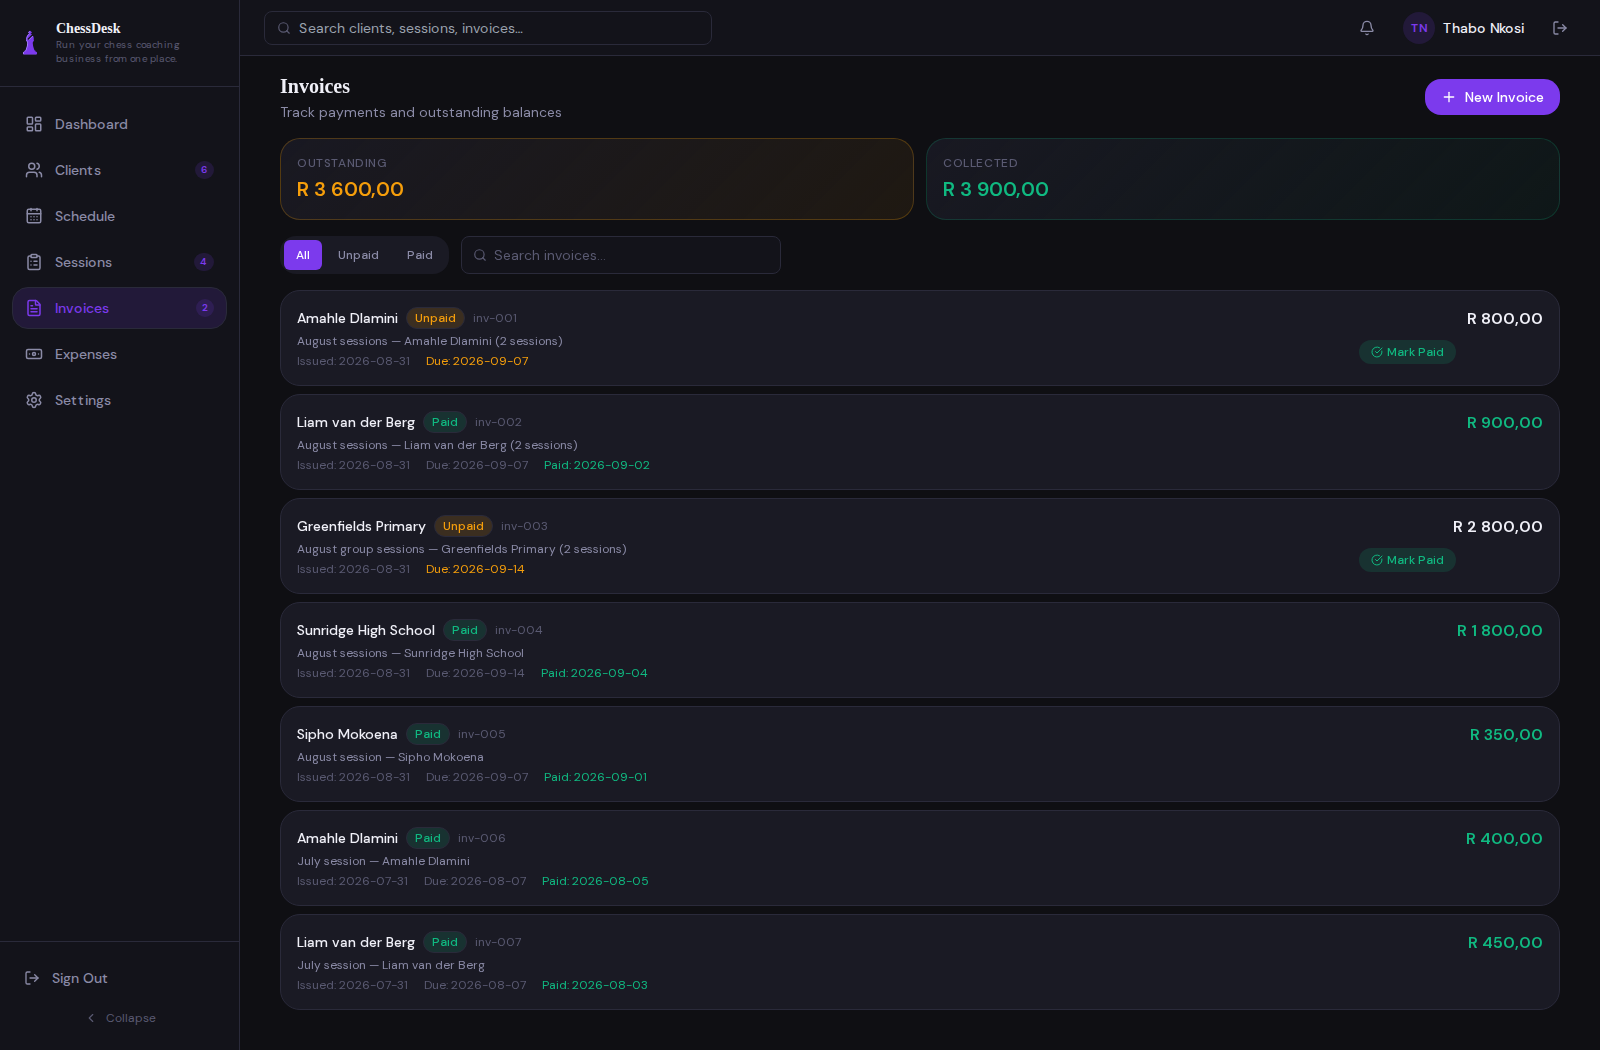
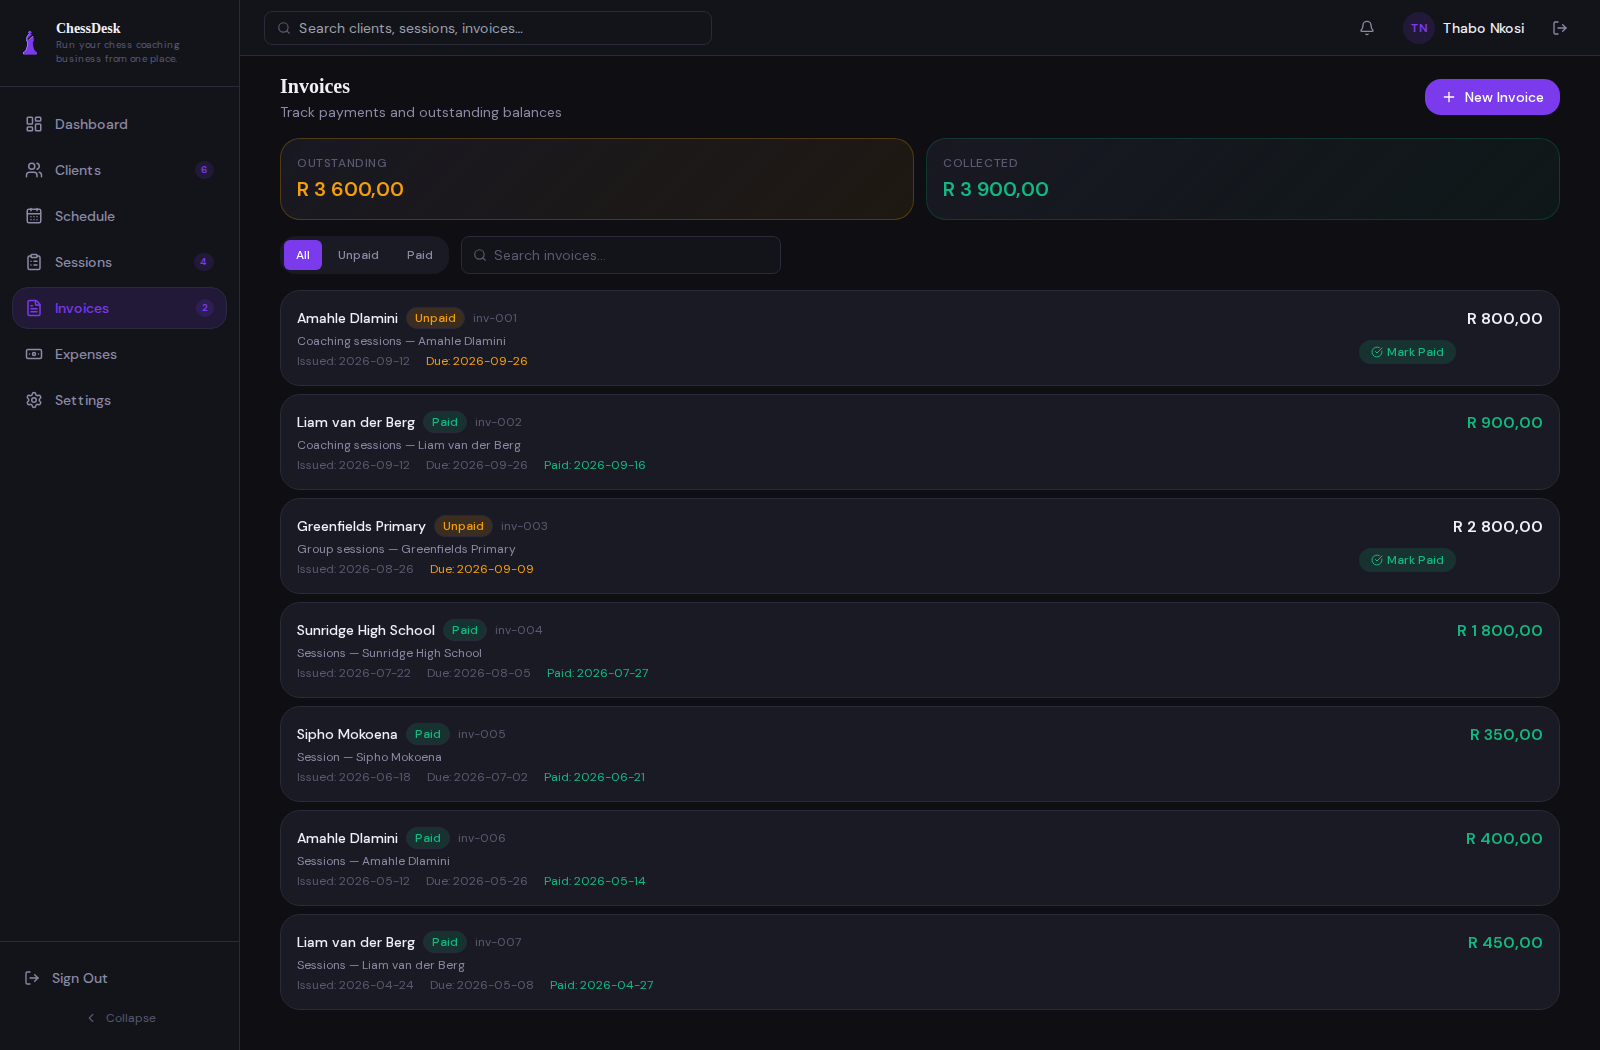
feat: refresh seeded demo data and README visuals

diff --git a/backend/store.py b/backend/store.py
@@ -2,9 +2,10 @@
 
 from __future__ import annotations
 
+import calendar
 import os
 from dataclasses import dataclass
-from datetime import date
+from datetime import date, timedelta
 from typing import Any
 
 from sqlalchemy import delete, func, select
@@ -55,6 +56,20 @@ def _env_enabled(name: str, *, default: bool) -> bool:
     if value is None:
         return default
     return value.strip().lower() in {"1", "true", "yes", "on"}
+
+
+def _sample_date(
+    today: date, months_ago: int, day: int, *, before_today: bool = False,
+) -> date:
+    """Place demo records in a rolling six-month window, including today-relative examples."""
+
+    month_index = today.year * 12 + today.month - 1 - months_ago
+    year, month_zero_based = divmod(month_index, 12)
+    month = month_zero_based + 1
+    sample_day = min(day, calendar.monthrange(year, month)[1])
+    if before_today and months_ago == 0:
+        sample_day = min(sample_day, max(1, today.day - 1))
+    return date(year, month, sample_day)
 
 
 class Store:
@@ -552,6 +567,8 @@ class Store:
             if db.scalar(select(CoachORM.id).limit(1)) is not None:
                 return
 
+            today = self.today()
+
             db.add(CoachORM(
                 id="coach-001", name="Thabo Nkosi", email="thabo@chessops.co.za",
                 phone="+27 82 345 6789", business_name="Nkosi Chess Academy", currency="ZAR",
@@ -599,43 +616,45 @@ class Store:
                 ))
 
             sessions = [
-                ("session-001", "client-001", "2026-09-08", "14:00", 60, None, "in-person", "Rosebank Library", "scheduled", ""),
-                ("session-002", "client-002", "2026-09-09", "16:00", 60, None, "online", "", "scheduled", "Tactics session — forks and pins."),
-                ("session-003", "client-005", "2026-09-10", "14:30", 90, None, "in-person", "School Hall", "scheduled", ""),
-                ("session-004", "client-006", "2026-09-12", "08:00", 60, None, "in-person", "Library Room B", "scheduled", ""),
-                ("session-005", "client-001", "2026-08-25", "14:00", 60, 55, "in-person", "Rosebank Library", "completed", "Covered endgame rook techniques."),
-                ("session-006", "client-002", "2026-08-26", "16:00", 60, 60, "online", "", "completed", ""),
-                ("session-007", "client-003", "2026-08-20", "10:00", 45, 45, "in-person", "Client home", "completed", "Basics of piece movement."),
-                ("session-008", "client-005", "2026-08-27", "14:30", 90, 85, "in-person", "School Hall", "completed", "Group opening theory."),
-                ("session-009", "client-006", "2026-08-29", "08:00", 60, 60, "in-person", "Library Room B", "completed", ""),
-                ("session-010", "client-001", "2026-08-15", "14:00", 60, None, "in-person", "Rosebank Library", "cancelled", "Student unwell."),
-                ("session-011", "client-002", "2026-07-28", "16:00", 60, 60, "online", "", "completed", ""),
-                ("session-012", "client-003", "2026-07-22", "10:00", 45, 40, "in-person", "Client home", "completed", ""),
+                ("session-001", "client-001", today + timedelta(days=2), "14:00", 60, None, "in-person", "Rosebank Library", "scheduled", ""),
+                ("session-002", "client-002", today + timedelta(days=3), "16:00", 60, None, "online", "", "scheduled", "Tactics session — forks and pins."),
+                ("session-003", "client-005", today + timedelta(days=4), "14:30", 90, None, "in-person", "School Hall", "scheduled", ""),
+                ("session-004", "client-006", today + timedelta(days=6), "08:00", 60, None, "in-person", "Library Room B", "scheduled", ""),
+                ("session-005", "client-001", _sample_date(today, 0, 12, before_today=True), "14:00", 60, 55, "in-person", "Rosebank Library", "completed", "Covered endgame rook techniques."),
+                ("session-006", "client-002", _sample_date(today, 1, 20), "16:00", 60, 60, "online", "", "completed", ""),
+                ("session-007", "client-003", _sample_date(today, 2, 18), "10:00", 45, 45, "in-person", "Client home", "completed", "Basics of piece movement."),
+                ("session-008", "client-005", _sample_date(today, 3, 23), "14:30", 90, 85, "in-person", "School Hall", "completed", "Group opening theory."),
+                ("session-009", "client-006", _sample_date(today, 4, 20), "08:00", 60, 60, "in-person", "Library Room B", "completed", ""),
+                ("session-010", "client-001", _sample_date(today, 1, 12), "14:00", 60, None, "in-person", "Rosebank Library", "cancelled", "Student unwell."),
+                ("session-011", "client-002", _sample_date(today, 5, 24), "16:00", 60, 60, "online", "", "completed", ""),
+                ("session-012", "client-003", _sample_date(today, 5, 10), "10:00", 45, 40, "in-person", "Client home", "completed", ""),
             ]
             for session_id, client_id, session_date, start_time, planned, actual, session_type, location, status, notes in sessions:
                 db.add(CoachingSessionORM(
                     id=session_id, coach_id="coach-001", client_id=client_id,
-                    date=date.fromisoformat(session_date), start_time=start_time,
+                    date=session_date, start_time=start_time,
                     planned_duration=planned, actual_duration=actual,
                     session_type=session_type, location=location, status=status, notes=notes,
                 ))
             db.flush()
 
+            current_invoice_date = _sample_date(today, 0, 12, before_today=True)
+            current_paid_date = min(today, current_invoice_date + timedelta(days=4))
             invoices = [
-                ("inv-001", "client-001", "2026-08-31", "2026-09-07", 800, "August sessions — Amahle Dlamini (2 sessions)", "unpaid", None, None, "", ""),
-                ("inv-002", "client-002", "2026-08-31", "2026-09-07", 900, "August sessions — Liam van der Berg (2 sessions)", "paid", "2026-09-02", "eft", "EFT-20260902-LVB", ""),
-                ("inv-003", "client-005", "2026-08-31", "2026-09-14", 2800, "August group sessions — Greenfields Primary (2 sessions)", "unpaid", None, None, "", "Awaiting school purchase order."),
-                ("inv-004", "client-006", "2026-08-31", "2026-09-14", 1800, "August sessions — Sunridge High School", "paid", "2026-09-04", "eft", "SHS-AUG26", ""),
-                ("inv-005", "client-003", "2026-08-31", "2026-09-07", 350, "August session — Sipho Mokoena", "paid", "2026-09-01", "cash", "", ""),
-                ("inv-006", "client-001", "2026-07-31", "2026-08-07", 400, "July session — Amahle Dlamini", "paid", "2026-08-05", "eft", "", ""),
-                ("inv-007", "client-002", "2026-07-31", "2026-08-07", 450, "July session — Liam van der Berg", "paid", "2026-08-03", "eft", "", ""),
+                ("inv-001", "client-001", current_invoice_date, current_invoice_date + timedelta(days=14), 800, "Coaching sessions — Amahle Dlamini", "unpaid", None, None, "", ""),
+                ("inv-002", "client-002", current_invoice_date, current_invoice_date + timedelta(days=14), 900, "Coaching sessions — Liam van der Berg", "paid", current_paid_date, "eft", "EFT-LVB-DEMO", ""),
+                ("inv-003", "client-005", _sample_date(today, 1, 26), _sample_date(today, 1, 26) + timedelta(days=14), 2800, "Group sessions — Greenfields Primary", "unpaid", None, None, "", "Awaiting school purchase order."),
+                ("inv-004", "client-006", _sample_date(today, 2, 22), _sample_date(today, 2, 22) + timedelta(days=14), 1800, "Sessions — Sunridge High School", "paid", _sample_date(today, 2, 22) + timedelta(days=5), "eft", "SHS-DEMO", ""),
+                ("inv-005", "client-003", _sample_date(today, 3, 18), _sample_date(today, 3, 18) + timedelta(days=14), 350, "Session — Sipho Mokoena", "paid", _sample_date(today, 3, 18) + timedelta(days=3), "cash", "", ""),
+                ("inv-006", "client-001", _sample_date(today, 4, 12), _sample_date(today, 4, 12) + timedelta(days=14), 400, "Sessions — Amahle Dlamini", "paid", _sample_date(today, 4, 12) + timedelta(days=2), "eft", "", ""),
+                ("inv-007", "client-002", _sample_date(today, 5, 24), _sample_date(today, 5, 24) + timedelta(days=14), 450, "Sessions — Liam van der Berg", "paid", _sample_date(today, 5, 24) + timedelta(days=3), "eft", "", ""),
             ]
             for invoice_id, client_id, invoice_date, due_date, amount, description, status, paid_date, payment_method, reference, notes in invoices:
                 db.add(InvoiceORM(
                     id=invoice_id, coach_id="coach-001", client_id=client_id,
-                    invoice_date=date.fromisoformat(invoice_date), due_date=date.fromisoformat(due_date),
+                    invoice_date=invoice_date, due_date=due_date,
                     amount=amount, description=description, status=status,
-                    paid_date=date.fromisoformat(paid_date) if paid_date else None,
+                    paid_date=paid_date,
                     payment_method=payment_method, payment_reference=reference, notes=notes,
                 ))
             db.flush()
@@ -654,16 +673,16 @@ class Store:
                 ])
 
             for expense_id, expense_date, amount, category, description in [
-                ("exp-001", "2026-09-03", 420, "transport", "Fuel — Rosebank + Greenfields trips"),
-                ("exp-002", "2026-09-01", 199, "internet", "Mobile data bundle"),
-                ("exp-003", "2026-08-28", 650, "chess_materials", "Chess sets for Greenfields Primary"),
-                ("exp-004", "2026-08-22", 180, "transport", "Fuel — August school visits"),
-                ("exp-005", "2026-08-15", 95, "food", "Lunch during long session day"),
-                ("exp-006", "2026-07-30", 1200, "equipment", "Digital chess clock"),
-                ("exp-007", "2026-07-18", 320, "transport", "Fuel — July"),
+                ("exp-001", _sample_date(today, 0, 6, before_today=True), 420, "transport", "Fuel — Rosebank + Greenfields trips"),
+                ("exp-002", _sample_date(today, 0, 17, before_today=True), 199, "internet", "Mobile data bundle"),
+                ("exp-003", _sample_date(today, 1, 28), 650, "chess_materials", "Chess sets for Greenfields Primary"),
+                ("exp-004", _sample_date(today, 2, 22), 180, "transport", "Fuel — school visits"),
+                ("exp-005", _sample_date(today, 3, 15), 95, "food", "Lunch during a long session day"),
+                ("exp-006", _sample_date(today, 4, 20), 1200, "equipment", "Digital chess clock"),
+                ("exp-007", _sample_date(today, 5, 18), 320, "transport", "Fuel — coaching visits"),
             ]:
                 db.add(ExpenseORM(
-                    id=expense_id, coach_id="coach-001", date=date.fromisoformat(expense_date),
+                    id=expense_id, coach_id="coach-001", date=expense_date,
                     amount=amount, category=category, description=description,
                 ))
             db.add_all([

diff --git a/README.md b/README.md
@@ -9,7 +9,13 @@ The project is aimed at small coaching businesses in South Africa. It records bu
 
 ## Demo
 
-The repository includes synthetic coach, student, school, session, invoice, and expense records. These screenshots show the seeded local demo:
+The repository includes synthetic coach, student, school, session, invoice, and expense records. The seeded dates move with the current date, so the six-month dashboard and upcoming sessions remain useful in a fresh local database. Screenshots use local sample data; there is no shared hosted demo account or public demo login.
+
+### Dashboard
+
+The dashboard summarizes revenue, payments, outstanding invoices, expenses, net income, session activity, and upcoming coaching sessions.
+
+![ChessDesk dashboard with seeded sample records](docs/screenshots/dashboard.png)
 
 ### Clients
 
@@ -22,13 +28,6 @@ Individual students and school clients share one searchable list, with contact p
 Review paid and unpaid invoices, due dates, client balances, and collected totals in rand.
 
 ![ChessDesk invoice list with seeded demo records](docs/screenshots/invoices.png)
-
-To sign in to the local demo, use:
-
-- Email: **thabo@chessops.co.za**
-- Password: **chess2026!**
-
-This account and password are for local demonstration only. A fresh database is seeded by default; set <code>CHESSDESK_SEED_DEMO=false</code> for a hosted deployment.
 
 ## Features
 
@@ -54,6 +53,8 @@ Session changes can create notification records according to each client's prefe
 
 In the repository root, install Python dependencies and start the API:
 
+    git clone https://github.com/Eleazarovich/chessdesk.git
+    cd chessdesk
     uv sync
     make dev
 
@@ -92,12 +93,9 @@ The API also answers <code>GET /health</code>. See [backend setup notes](backend
 
 ## Architecture
 
-The browser runs the Next.js frontend. It calls the FastAPI REST API, which authenticates the coach and reads or writes application records through SQLAlchemy. The backend uses SQLite for a simple local run and PostgreSQL in Docker Compose.
+The diagram shows the browser request path, database access, and telemetry flow. Loki is included in the local observability stack, but the application does not currently export OTLP logs.
 
-When telemetry is enabled, FastAPI and SQLAlchemy instrumentation export traces and metrics over OTLP. The included stack routes traces to Tempo, metrics to Prometheus, and provides Grafana dashboards. Loki is included for log storage, but the application does not currently export OTLP logs.
-
-    Browser → Next.js 15 frontend → FastAPI API → SQLAlchemy → SQLite or PostgreSQL
-    FastAPI and SQLAlchemy → OpenTelemetry Collector → Prometheus and Tempo → Grafana
+![ChessDesk application and observability architecture](docs/architecture.svg)
 
 ## Technology
 
@@ -144,7 +142,7 @@ The local observability stack and current metrics are described in [observabilit
 - Session notification events are stored in the app's database; no real WhatsApp or email provider is integrated.
 - Password-reset requests return the same accepted response for any address, but no reset email is sent.
 - Dashboard charts and summaries use recorded business data; they do not provide accounting, tax, or payment processing.
-- Demo seed sessions and invoices use fixed sample dates, so their upcoming-session and period summaries can become stale over time.
+- Demo seed records use dates relative to the current date and are added only when the database is empty.
 - There is no parent, learner, or school portal, team management, chess engine, or online game interface.
 
 Integrating message delivery and a real password-reset flow are natural follow-up tasks. The [MVP specification](docs/spec.md) describes the original product scope.

diff --git a/backend/README.md b/backend/README.md
@@ -18,8 +18,10 @@ DATABASE_URL=postgresql://chessdesk:password@localhost:5432/chessdesk \
 ```
 
 The backend uses the Psycopg 3 driver for `postgresql://` and legacy
-`postgres://` URLs. It creates missing tables and seeds the demo account when
-the database is empty. PostgreSQL must be running and the configured database
+`postgres://` URLs. It creates missing tables and, by default, seeds synthetic
+development records into an empty database. Set `CHESSDESK_SEED_DEMO=false` to
+disable seeding; hosted deployments do this, so there is no shared demo account
+or public demo login. PostgreSQL must be running and the configured database
 must already exist before starting the API.
 
 The API is available at `http://127.0.0.1:8000/api/v1`; interactive docs are at
@@ -94,9 +96,8 @@ docker run --rm -p 8000:8000 \
 Replace `postgres` with the hostname reachable from the API container and use
 the credentials configured for your PostgreSQL instance.
 
-The seeded demo account is `thabo@chessops.co.za` / `chess2026!`. Login returns
-an `access_token` for `Authorization: Bearer <token>` requests and also sets the
-`chessdesk_session` HttpOnly cookie.
+Login returns an `access_token` for `Authorization: Bearer <token>` requests
+and also sets the `chessdesk_session` HttpOnly cookie.
 
 Run tests with:
 
